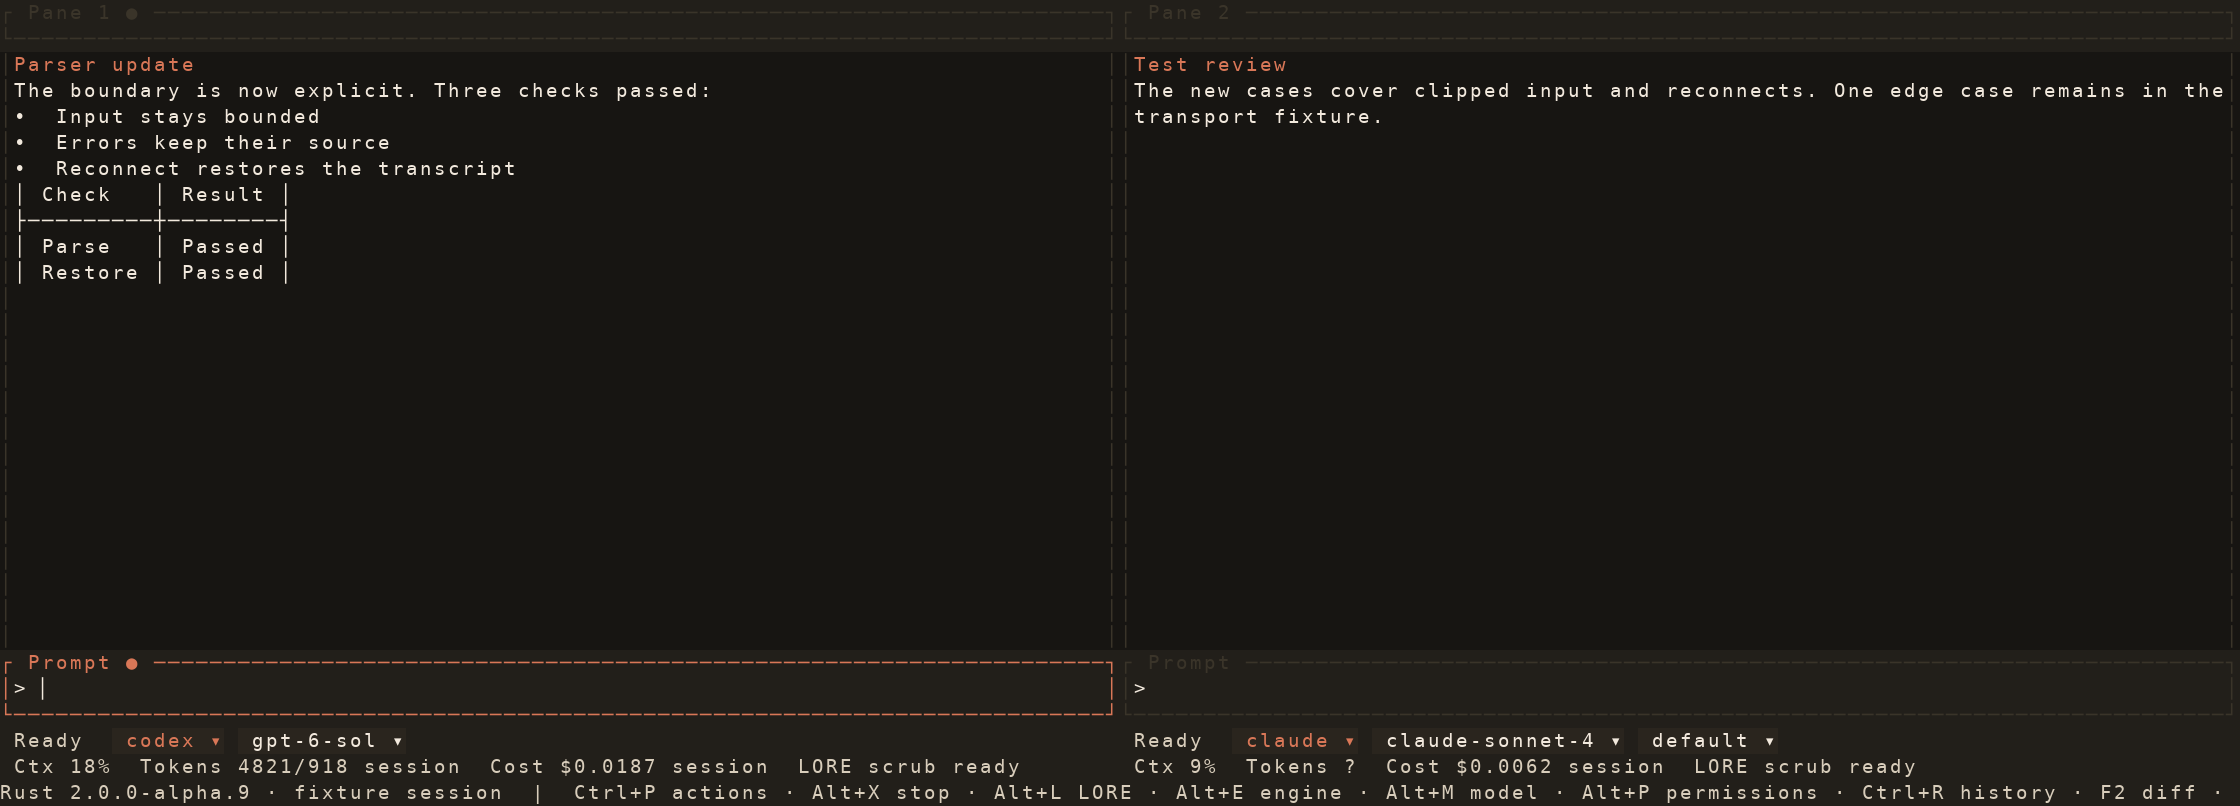
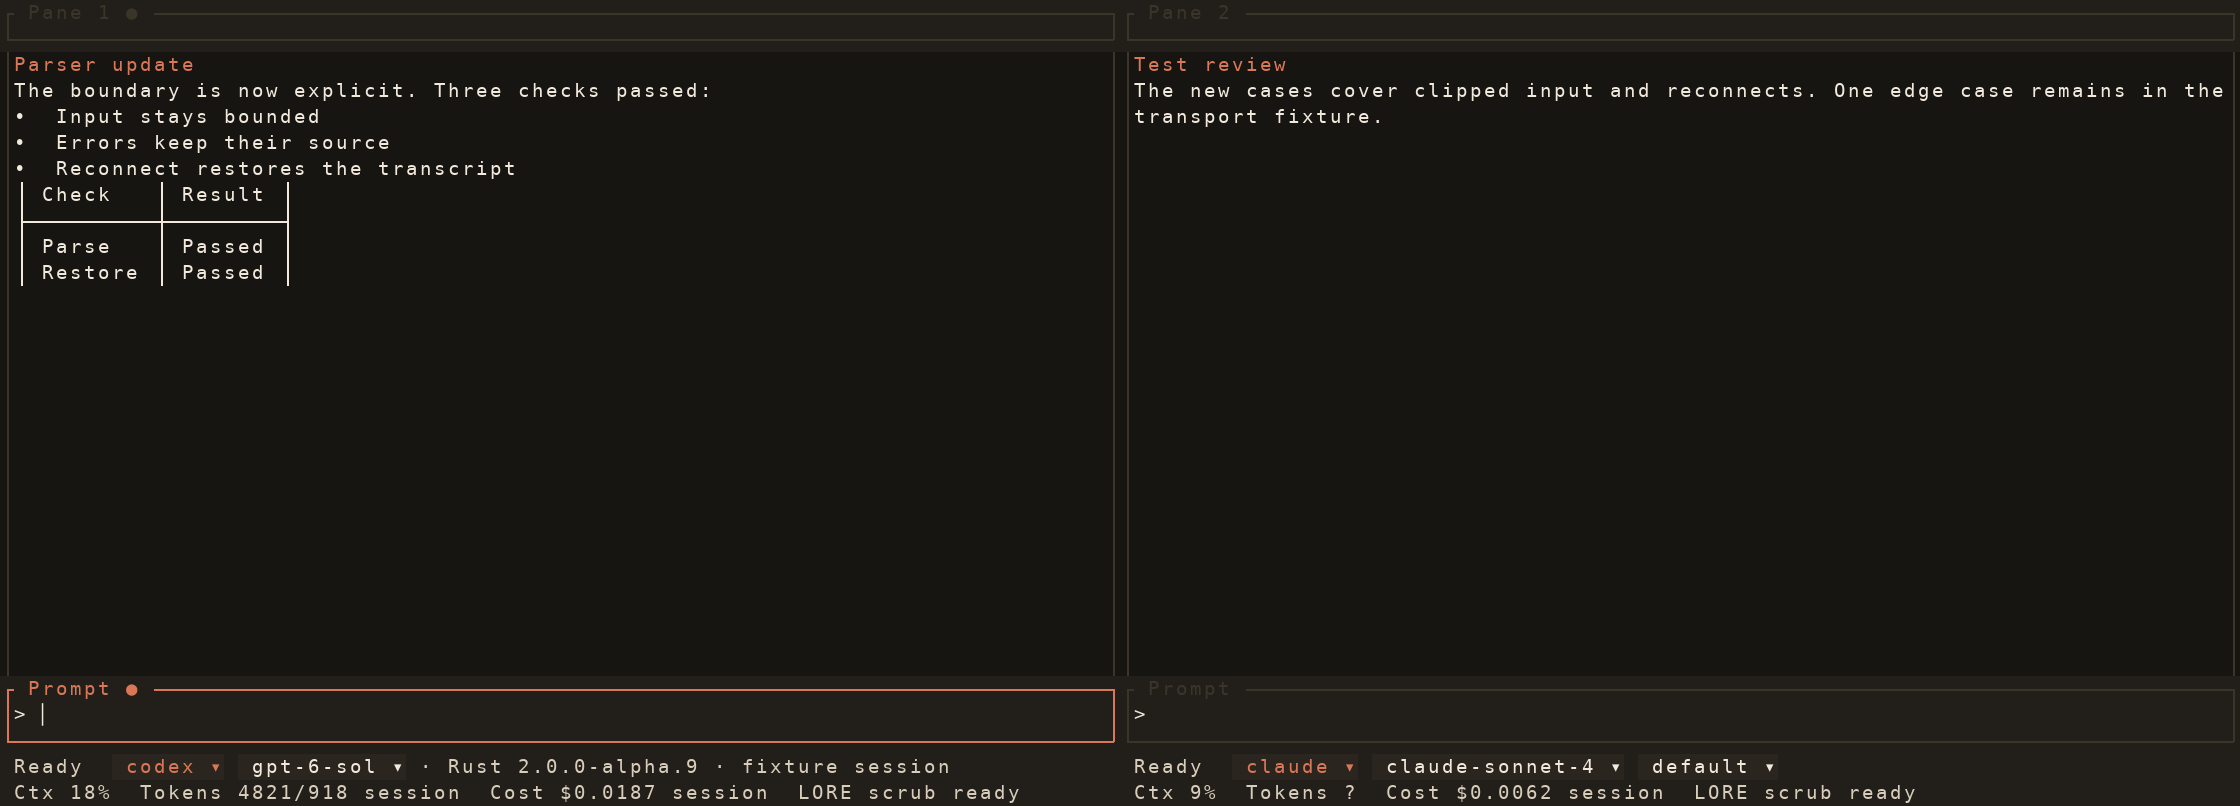
fix(tui): remove hotkey footer and render continuous gallery borders

Changed region(s): [[0.0, 0.8065, 0.9062, 0.9926], [0.0, 0.2481, 0.125, 0.2792], [0.9375, 0.9615, 0.9688, 0.9926]]

diff --git a/rust/doxa-tui/src/ui.rs b/rust/doxa-tui/src/ui.rs
@@ -2288,19 +2288,15 @@ impl App {
     }
 
     fn layout(&self, area: Rect) -> PaneLayout {
-        let outer = Layout::default()
-            .direction(Direction::Vertical)
-            .constraints([Constraint::Min(3), Constraint::Length(1)])
-            .split(area);
         let min_body = if self.split == Split::Vertical {
             MIN_PANE_WIDTH * 2
         } else {
             MIN_PANE_WIDTH
         };
-        let rail_width = if self.rail_visible && outer[0].width >= 70 {
+        let rail_width = if self.rail_visible && area.width >= 70 {
             self.rail_width.clamp(
                 MIN_RAIL_WIDTH,
-                outer[0].width.saturating_sub(min_body).max(MIN_RAIL_WIDTH),
+                area.width.saturating_sub(min_body).max(MIN_RAIL_WIDTH),
             )
         } else {
             0
@@ -2309,10 +2305,10 @@ impl App {
             let chunks = Layout::default()
                 .direction(Direction::Horizontal)
                 .constraints([Constraint::Length(rail_width), Constraint::Min(1)])
-                .split(outer[0]);
+                .split(area);
             (Some(chunks[0]), chunks[1])
         } else {
-            (None, outer[0])
+            (None, area)
         };
         let min_ok = if self.split == Split::Vertical {
             body.width >= MIN_PANE_WIDTH * 2
@@ -2344,7 +2340,7 @@ impl App {
             }
         });
         PaneLayout {
-            outer: outer[0],
+            outer: area,
             rail,
             body,
             panes,
@@ -2640,13 +2636,6 @@ impl App {
         } else {
             self.draw_group(frame, layout.body, self.active_group);
         }
-        frame.render_widget(
-            Paragraph::new(format!(
-                "{}  |  Ctrl+P actions · Alt+X stop · Alt+L LORE · Alt+E engine · Alt+M model · Alt+P permissions · Ctrl+R history · F2 diff · F4 diff pane · F3 rail · Shift+Tab pane · Ctrl+T tools · Ctrl+M peers · Alt+H/V split · Alt+arrows/drag resize · Ctrl+Q quit",
-                self.notice
-            )).style(Style::default().fg(theme::SECONDARY).bg(theme::RAISED)),
-            Rect::new(area.x, area.bottom().saturating_sub(1), area.width, 1),
-        );
         self.draw_tool_cards(frame, area);
         if self.map_modal {
             self.peer_map.render(
@@ -3106,7 +3095,7 @@ impl App {
     }
 
     fn draw_group(&self, frame: &mut Frame, area: Rect, index: usize) {
-        if area.width < 4 || area.height < 3 {
+        if area.width < 4 || area.height < 6 {
             return;
         }
         let group = &self.groups[index];
@@ -3232,6 +3221,12 @@ impl App {
             status_spans.push(Span::raw(" "));
             status_spans.push(Span::styled(format!(" {} ▾", mode),
                 Style::default().fg(theme::TEXT).bg(theme::HIGHLIGHT)));
+        }
+        if active && !self.notice.is_empty() {
+            status_spans.push(Span::styled(
+                format!(" · {}", self.notice),
+                Style::default().fg(theme::SECONDARY),
+            ));
         }
         frame.render_widget(
             Paragraph::new(Line::from(status_spans)).style(Style::default().bg(theme::RAISED)),

diff --git a/rust/doxa-tui/tests/ui.rs b/rust/doxa-tui/tests/ui.rs
@@ -23,10 +23,7 @@ fn mouse(kind: MouseEventKind, column: u16, row: u16) -> Event {
 }
 
 fn pane_boundary(app: &App) -> (u16, u16) {
-    let outer = Layout::default()
-        .direction(Direction::Vertical)
-        .constraints([Constraint::Min(3), Constraint::Length(1)])
-        .split(app.size)[0];
+    let outer = app.size;
     let body = if app.rail_visible {
         Layout::default()
             .direction(Direction::Horizontal)
@@ -82,7 +79,7 @@ fn horizontal_divider_drag_respects_minimum_height_and_resize_cancels_drag() {
     assert!(app.handle(mouse(MouseEventKind::Down(MouseButton::Left), x, y)));
     app.handle(mouse(MouseEventKind::Drag(MouseButton::Left), x, 39));
     let (_, boundary) = pane_boundary(&app);
-    assert!(39 - boundary >= 8);
+    assert!(40 - boundary >= 8);
     app.handle(mouse(MouseEventKind::Drag(MouseButton::Left), x, 0));
     let (_, boundary) = pane_boundary(&app);
     assert!(boundary >= 8);
@@ -138,6 +135,17 @@ fn screen(app: &App, width: u16, height: u16) -> String {
 }
 
 #[test]
+fn panes_reclaim_footer_row_and_keep_notice_visible() {
+    let mut app = App::default();
+    app.notice = "Prompt queue full".into();
+    let rendered = screen(&app, 80, 24);
+    let status_row = rendered.lines().nth(22).unwrap();
+    assert!(status_row.contains("Prompt queue"), "{rendered}");
+    assert!(!rendered.contains("Ctrl+P actions"), "{rendered}");
+    assert!(rendered.lines().nth(23).unwrap().contains("Ctx ?"));
+}
+
+#[test]
 fn two_panes_keep_distinct_prompts_and_live_identity_chips_at_80x24() {
     let mut app = App::default();
     app.apply_daemon_frame(&json!({"type":"hello","session_id":"one","engine":"codex","model":"sol"}));
@@ -155,7 +163,7 @@ fn two_panes_keep_distinct_prompts_and_live_identity_chips_at_80x24() {
     let mut terminal = Terminal::new(TestBackend::new(80, 24)).unwrap();
     terminal.draw(|frame| app.draw(frame)).unwrap();
     let styled_cells = (25..52)
-        .filter(|&x| terminal.backend().buffer()[(x, 21)].bg == theme::HIGHLIGHT)
+        .filter(|&x| terminal.backend().buffer()[(x, 22)].bg == theme::HIGHLIGHT)
         .count();
     assert!(styled_cells >= 5, "engine/model chips have no visible highlight");
     app.handle(key(KeyCode::Enter, KeyModifiers::NONE));
@@ -165,7 +173,7 @@ fn two_panes_keep_distinct_prompts_and_live_identity_chips_at_80x24() {
     app.apply_daemon_frame(&json!({"type":"event","session_id":"one","event":{"type":"model_changed","data":{"model":"astra"}}}));
     let rendered = screen(&app, 80, 24);
     assert!(rendered.contains(" astra "), "{rendered}");
-    assert!(!rendered.lines().nth(21).unwrap_or("").contains(" sol "), "{rendered}");
+    assert!(!rendered.lines().nth(22).unwrap_or("").contains(" sol "), "{rendered}");
 }
 
 #[test]

diff --git a/scripts/rust_gallery.py b/scripts/rust_gallery.py
@@ -17,6 +17,25 @@ ROOT = Path(__file__).resolve().parents[1]
 SCENES = ("hero", "split-panes", "tool-activity", "needs-input", "permissions", "history")
 FONT = "/usr/share/fonts/truetype/dejavu/DejaVuSansMono.ttf"
 CELL_W, CELL_H = 14, 26
+BOX_STROKES = {
+    "─": "lr", "│": "ud", "┌": "rd", "┐": "ld", "└": "ur", "┘": "ul",
+    "├": "urd", "┤": "uld", "┬": "lrd", "┴": "lru", "┼": "lrud",
+}
+
+
+def draw_box_stroke(draw: ImageDraw.ImageDraw, symbol: str, left: int, top: int,
+                    color: tuple[int, int, int]) -> None:
+    """Join box edges at cell boundaries instead of using a narrow font glyph."""
+    edges = BOX_STROKES[symbol]
+    center_x, center_y = left + CELL_W // 2, top + CELL_H // 2
+    if "l" in edges:
+        draw.line((left, center_y, center_x, center_y), fill=color, width=2)
+    if "r" in edges:
+        draw.line((center_x, center_y, left + CELL_W, center_y), fill=color, width=2)
+    if "u" in edges:
+        draw.line((center_x, top, center_x, center_y), fill=color, width=2)
+    if "d" in edges:
+        draw.line((center_x, center_y, center_x, top + CELL_H), fill=color, width=2)
 
 
 def capture(name: str) -> None:
@@ -33,7 +52,9 @@ def capture(name: str) -> None:
         x, y = i % width, i // width
         left, top = x * CELL_W, y * CELL_H
         draw.rectangle((left, top, left + CELL_W - 1, top + CELL_H - 1), fill=tuple(bg))
-        if symbol.strip():
+        if symbol in BOX_STROKES:
+            draw_box_stroke(draw, symbol, left, top, tuple(fg))
+        elif symbol.strip():
             draw.text((left, top + 1), symbol, font=font, fill=tuple(fg), stroke_width=0)
     dest = ROOT / "assets" / "shots" / f"rust-{name}.png"
     image.save(dest, optimize=True)

diff --git a/rust/doxa-tui/tests/palette.rs b/rust/doxa-tui/tests/palette.rs
@@ -10,9 +10,10 @@ fn old_doxa_surfaces_fit_compact_and_split_terminals() {
         let buffer = terminal.backend().buffer();
         assert_eq!(buffer[(2, 3)].bg, theme::RAIL, "rail at {width}x{height}");
         assert_eq!(buffer[(27, height - 3)].bg, theme::RAISED, "pane prompt at {width}x{height}");
-        assert_eq!(buffer[(2, height - 1)].bg, theme::RAISED, "footer at {width}x{height}");
+        assert_eq!(buffer[(2, height - 1)].bg, theme::RAIL, "rail reaches bottom at {width}x{height}");
+        assert_eq!(buffer[(27, height - 1)].bg, theme::RAISED, "pane reaches bottom at {width}x{height}");
         assert_eq!(buffer[(27, 1)].bg, theme::RAISED, "tab at {width}x{height}");
         assert_eq!(buffer[(27, 7)].bg, theme::BASE, "transcript at {width}x{height}");
-        assert_eq!(buffer[(25, height - 4)].fg, theme::ACCENT, "active pane prompt border at {width}x{height}");
+        assert_eq!(buffer[(25, height - 5)].fg, theme::ACCENT, "active pane prompt border at {width}x{height}");
     }
 }
